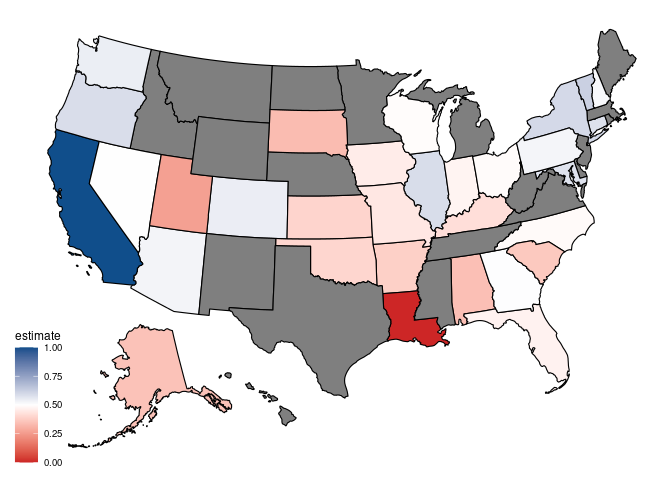
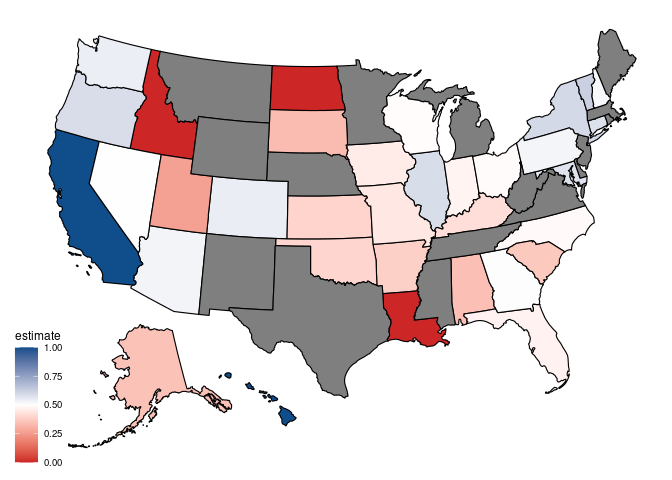
Fix number of safe seats for each party

Changed region(s): [[0.1875, 0.0938, 0.3125, 0.3438], [0.4062, 0.125, 0.5312, 0.25], [0.4062, 0.8438, 0.4375, 0.875]]

diff --git a/README.md b/README.md
@@ -76,7 +76,12 @@ we get?
 
 ![](README_files/figure-gfm/map-1.png)<!-- -->
 
-We’d end up with 50 Democrats in the Senate and 47 Republicans in the
+(The completely solid red or blue states were states that could not be
+estimated by this model due to data issues such as lack of polling, but
+there is also a very strong consensus on the outcome in those states so
+I treated them as a particular party winning them with probability 1).
+
+We’d end up with 51 Democrats in the Senate and 49 Republicans in the
 Senate… at least just looking at the point estimates alone and using 0.5
 as the prediction cutoff. However, just like with all the other models
 of this election, this naive model gives lots of close races; here are
@@ -104,17 +109,19 @@ outcomes according to the model:
 
 | Dem-held seats | N Simulations |
 |---------------:|--------------:|
-|             48 |            24 |
-|             49 |          9017 |
-|             50 |         30749 |
-|             51 |           210 |
+|             49 |            24 |
+|             50 |          9017 |
+|             51 |         30749 |
+|             52 |           210 |
 
-So the modal outcome of this model, by far, is the Dems keeping the
-Senate, 50-50. But Dems ending up with more than that is quite a rare
+Unsurprisingly, there’s less uncertainty in this model than some others
+given its almost total lack of sophistication. The modal outcome of this
+model, by far, is the Dems keeping the Senate, and even gaining a seat,
+up to 51-49. But Dems ending up with more than that is quite a rare
 outcome of this model.
 
 …And the model overestimated Dems by just a little in the last two
-cycles… 😬
+cycles… so it’s gonna be a nail-biter 😬
 
 ## Appendices
 
